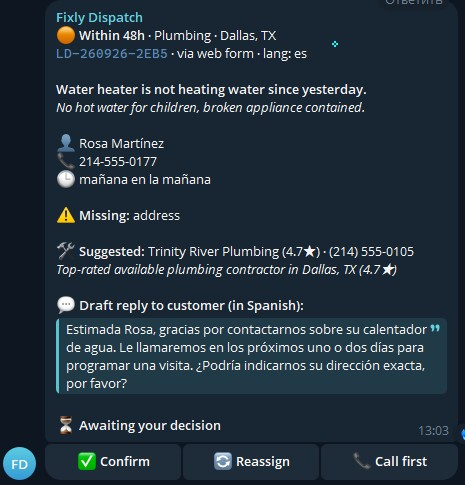
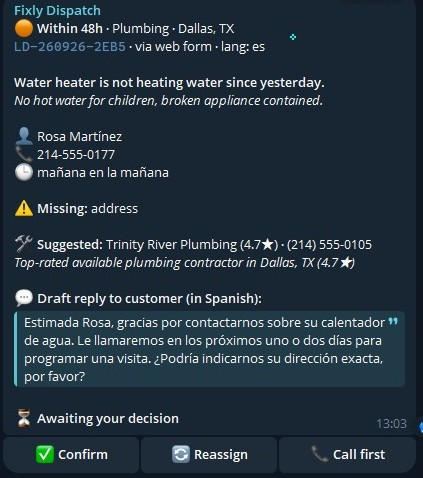
Update Telegram card screenshot (tighter crop)

diff --git a/README.md b/README.md
@@ -5,7 +5,7 @@
 Built for a remote back office that dispatches home repair contractors (plumbing, electrical, HVAC, handyman, drywall, painting, appliance repair, and more) across many US cities. Runs entirely on free tiers: **$0 to run, no credit card anywhere.**
 
 <p align="center">
-  <img src="docs/screenshots/card.jpg" width="440" alt="Telegram lead card: urgency, extracted contacts, missing info, suggested contractor, draft reply in Spanish, and Confirm / Reassign / Call first buttons">
+  <img src="docs/screenshots/card.jpg" width="423" alt="Telegram lead card: urgency, extracted contacts, missing info, suggested contractor, draft reply in Spanish, and Confirm / Reassign / Call first buttons">
 </p>
 
 ---
